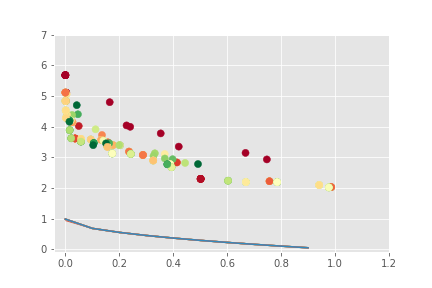
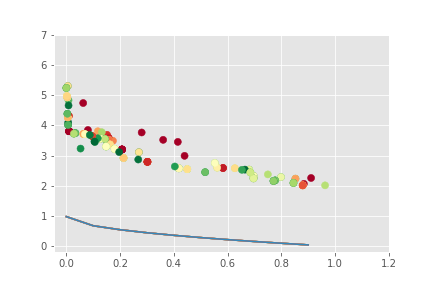
mmm

diff --git a/moea-d.py b/moea-d.py
@@ -70,11 +70,12 @@ for generation in range(MAXGEN):
     if generation%50 == 0:
         Z1 = [es.objective_val[0] for es in EP]
         Z2 = [es.objective_val[1] for es in EP]
+        x_vector = [es.x for es in EP]
         es_generation = [es.generation for es in EP]
         plt.scatter(Z1, Z2, c=es_generation, cmap=plt.cm.RdYlGn, s=50)
 
-        plot_z1 = np.arange(min(Z1),max(Z1), 0.1)
-        plot_z2 = [1 - np.sqrt(z1val) for z1val in plot_z1]
+        plot_z1 = np.arange(min(Z1),max(Z1), 0.1)   #f1value
+        plot_z2 = [1 - np.sqrt(z1val/g_ZDT1 for z1val in plot_z1]
         plt.plot(plot_z1, plot_z2)
         plt.ylim(ymax=7)
         plt.xlim(xmax=1.2)

diff --git a/solution.py b/solution.py
@@ -159,7 +159,7 @@ class Solution(object):
 			if self.num_type[dimension] == 'Continuous':
 				change = np.random.binomial(1, frequency_of_change)
 				if change == 1:
-					print(self.x[dimension])
+					#print(self.x[dimension])
 					evolution.x[dimension] = self.x[dimension] + np.random.normal(0, self.x[dimension]**2 + 1)
 
 			elif self.num_type[dimension] == 'Binary':
